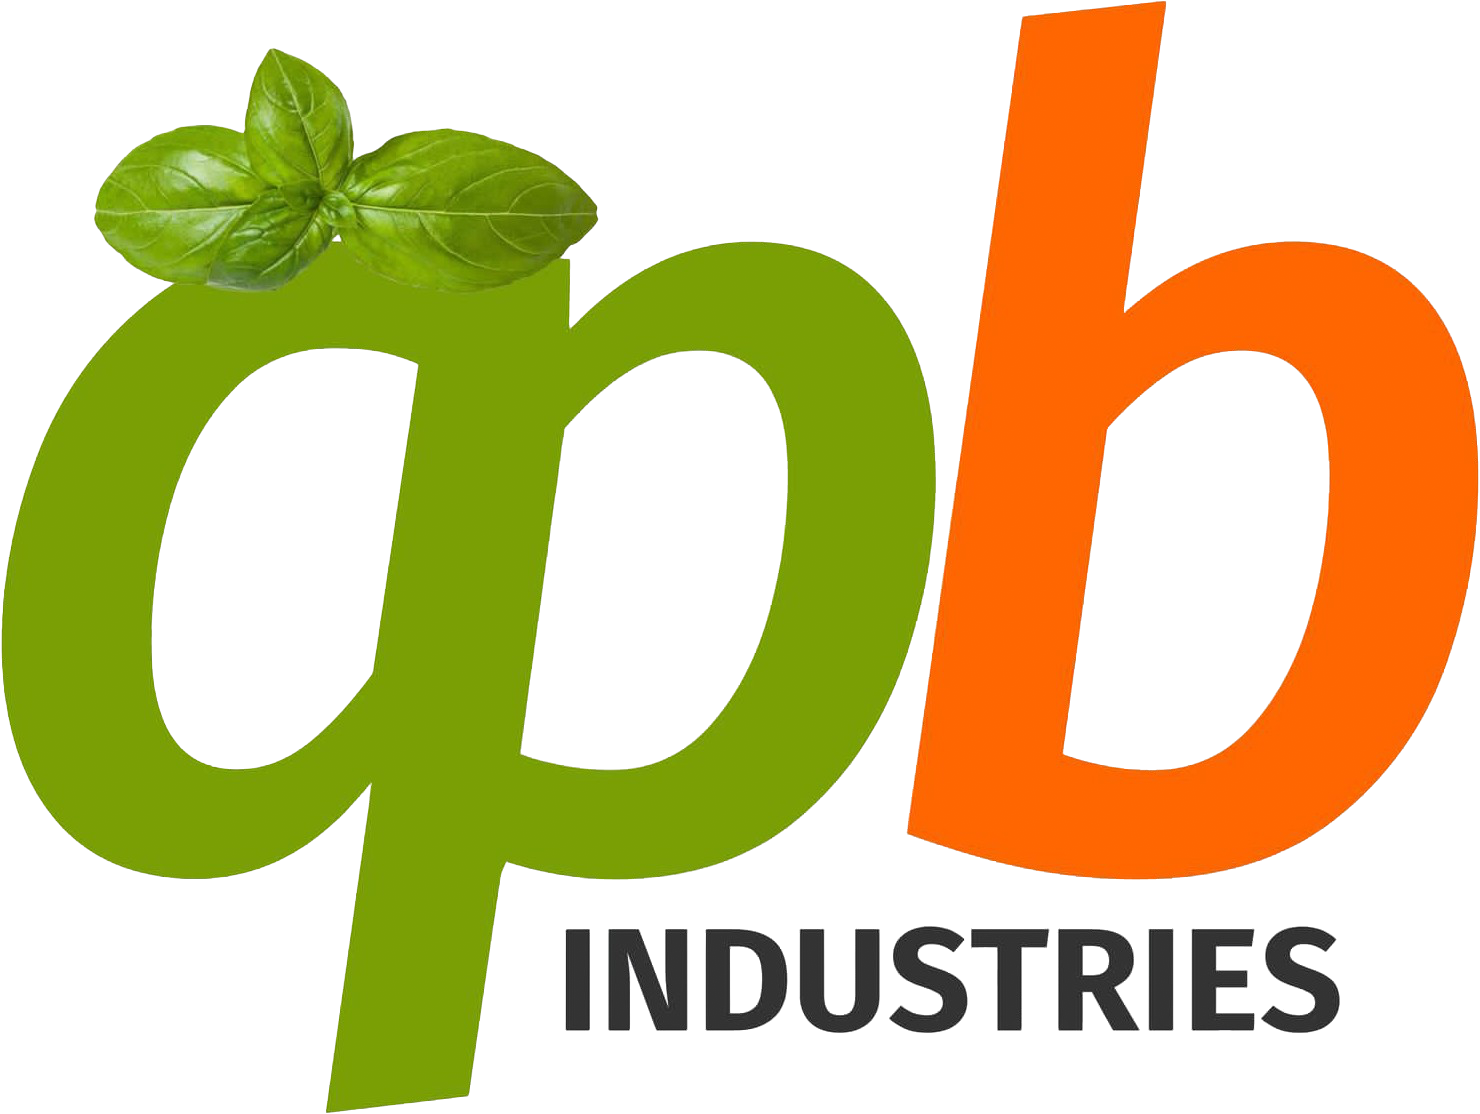
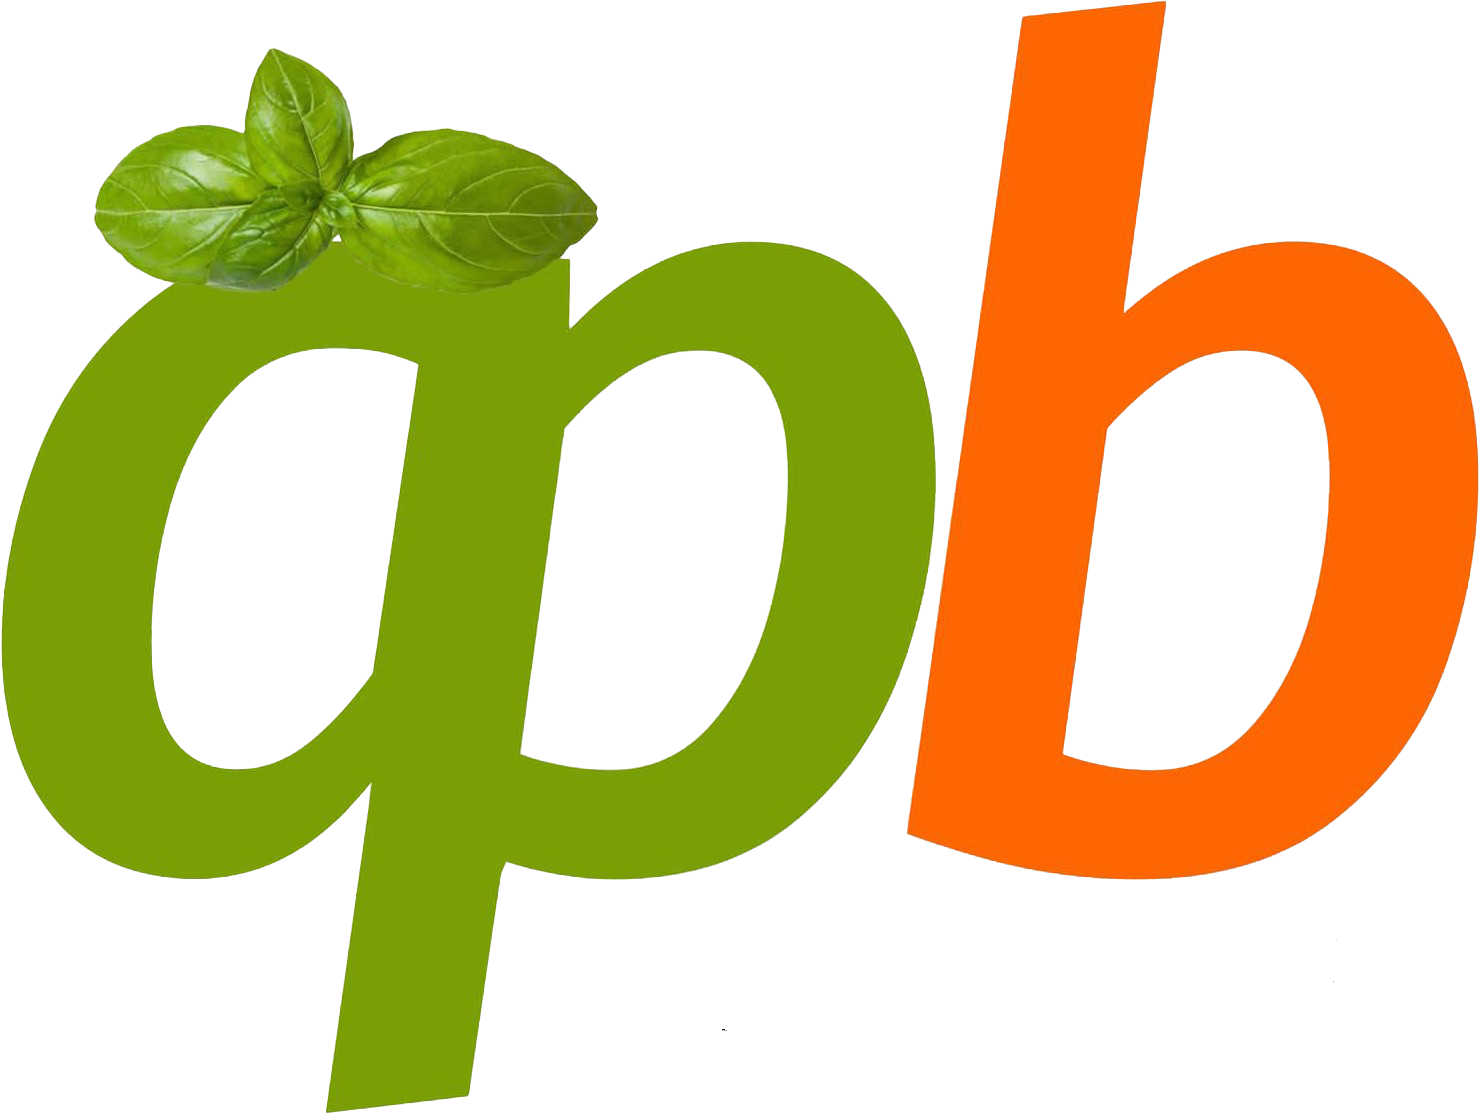
final changes for now

Changed region(s): [[0.373, 0.8241, 0.9014, 0.9461]]

diff --git a/style.css b/style.css
@@ -14,7 +14,8 @@ html {
   overflow-y: auto;
   overflow-x: hidden;
   font-family: "Raleway-Regular"; /* Choose a name for the font */
-  src: url("font/Raleway-Regular.ttf") format("woff2"),
+  src:
+    url("font/Raleway-Regular.ttf") format("woff2"),
     /* Modern browsers */ url("font/Raleway-Regular.ttf") format("truetype"); /* Backup for older browsers */
 }
 /* 
@@ -51,14 +52,16 @@ textarea {
 
 @font-face {
   font-family: "Raleway-Bold"; /* Choose a name for the font */
-  src: url("font/Raleway-regular.ttf") format("woff2"),
+  src:
+    url("font/Raleway-regular.ttf") format("woff2"),
     /* Modern browsers */ url("font/Raleway-Regular.ttf") format("truetype"); /* Backup for older browsers */
 }
 /* Body Styles */
 body {
   overflow: hidden;
   font-family: "Raleway-Bold"; /* Choose a name for the font */
-  src: url("font/Raleway-Bold.ttf") format("woff2"),
+  src:
+    url("font/Raleway-Bold.ttf") format("woff2"),
     /* Modern browsers */ url("font/Raleway-Bold.ttf") format("truetype"); /* Backup for older browsers */
 }
 
@@ -136,50 +139,81 @@ body {
   }
 }
 
-/* Navigation */
+header {
+  position: absolute;
+  top: 0;
+  left: 0;
+  width: 100%;
+  z-index: 20;
+  pointer-events: none; /* hero stays interactive */
+}
+
 nav {
-  z-index: 10;
+  display: flex;
+  align-items: center;
+  justify-content: space-between;
+  padding: 1.5rem 4rem;
+  pointer-events: auto;
 }
 
 .header {
-  position: absolute;
-  top: 0.625rem; /* 10px */
-  width: 60%;
   display: flex;
-  justify-content: flex-end;
-  gap: 1.875rem; /* 30px */
-  padding: 1.25rem 3.75rem; /* 20px 60px */
-  border: 0.094rem solid #7a9f04; /* 1.5px */
-  border-style: inset;
-  z-index: 100; /* Ensure it stays above other elements */
-  margin-left: 23.75rem; /* 380px */
+  align-items: center;
+  gap: 2.25rem;
+
+  padding: 0.9rem 2.5rem;
+  border-radius: 999px;
+
+  background: rgba(0, 0, 0, 0.35);
+  backdrop-filter: blur(10px);
+}
+
+.header li {
+  list-style: none;
 }
 
 .header li a {
-  color: #7a9f04;
-  font-size: 0.875rem; /* 14px */
+  position: relative;
+  color: #ffffff;
+  font-size: 0.85rem;
+  letter-spacing: 0.08em;
+  text-transform: uppercase;
   text-decoration: none;
+  padding: 0.25rem 0;
+  transition: color 0.3s ease;
+
+  text-transform: capitalize;
+}
+
+.header li a::after {
+  content: "";
+  position: absolute;
+  left: 0;
+  bottom: -4px;
+  width: 100%;
+  height: 1px;
+  background: rgb(208, 100, 6);
+  transform: scaleX(0);
+  transform-origin: left;
+  transition: transform 0.3s ease;
 }
 
 .header li a:hover {
   color: rgb(208, 100, 6);
-  border-bottom: 0.063rem solid rgb(208, 100, 6); /* 1px */
+}
+
+.header li a:hover::after {
+  transform: scaleX(1);
 }
 
 .logo img {
-  width: auto;
-  height: 3.125rem; /* 50px */
-  margin-left: 24.375rem; /* 390px */
-  margin-bottom: 1.875rem; /* 30px */
-  margin-top: 0.938rem; /* 15px */
-  display: flex;
-  justify-content: flex-start;
+  height: 3.125rem;
+  display: block;
 }
 
 /* Hero Section */
 
 .hero {
-  margin-top: 1.25rem; /* 20px */
   position: relative;
 }
 
@@ -189,7 +223,7 @@ nav {
   margin: 0 auto;
   display: block;
   object-fit: cover;
-  margin-top: -1.875rem; /* -30px */
+  margin-top: -1rem;
   filter: brightness(30%);
   background-position: fixed;
   background-repeat: no-repeat;

diff --git a/script.js b/script.js
@@ -113,7 +113,7 @@ document.addEventListener("DOMContentLoaded", function () {
         .from(
           content,
           { x: 100, opacity: 0, duration: 1, ease: "power3.out" },
-          "<"
+          "<",
         );
     }
   };
@@ -145,9 +145,18 @@ document.addEventListener("DOMContentLoaded", function () {
         }
       });
     },
-    { threshold: 0.5 }
+    { threshold: 0.5 },
   );
 
   const statsSection = document.querySelector(".abp-stats");
   if (statsSection) observer.observe(statsSection);
+});
+
+gsap.from(".header li", {
+  y: -20,
+  opacity: 0,
+  stagger: 0.1,
+  duration: 0.8,
+  ease: "power3.out",
+  delay: 0.5,
 });

diff --git a/home.html b/home.html
@@ -1,4 +1,4 @@
-<!DOCTYPE html>
+<!doctype html>
 <html lang="en">
   <head>
     <meta charset="UTF-8" />
@@ -34,7 +34,11 @@
     <header>
       <nav>
         <div class="logo">
-          <img src="images/ABP.png" loading="lazy" alt="ABP Industries Logo" />
+          <img
+            src="images/ABP-removebg.png"
+            loading="lazy"
+            alt="ABP Industries Logo"
+          />
         </div>
         <ul class="header">
           <li><a rel="prefetch" href="home.html">Home</a></li>
